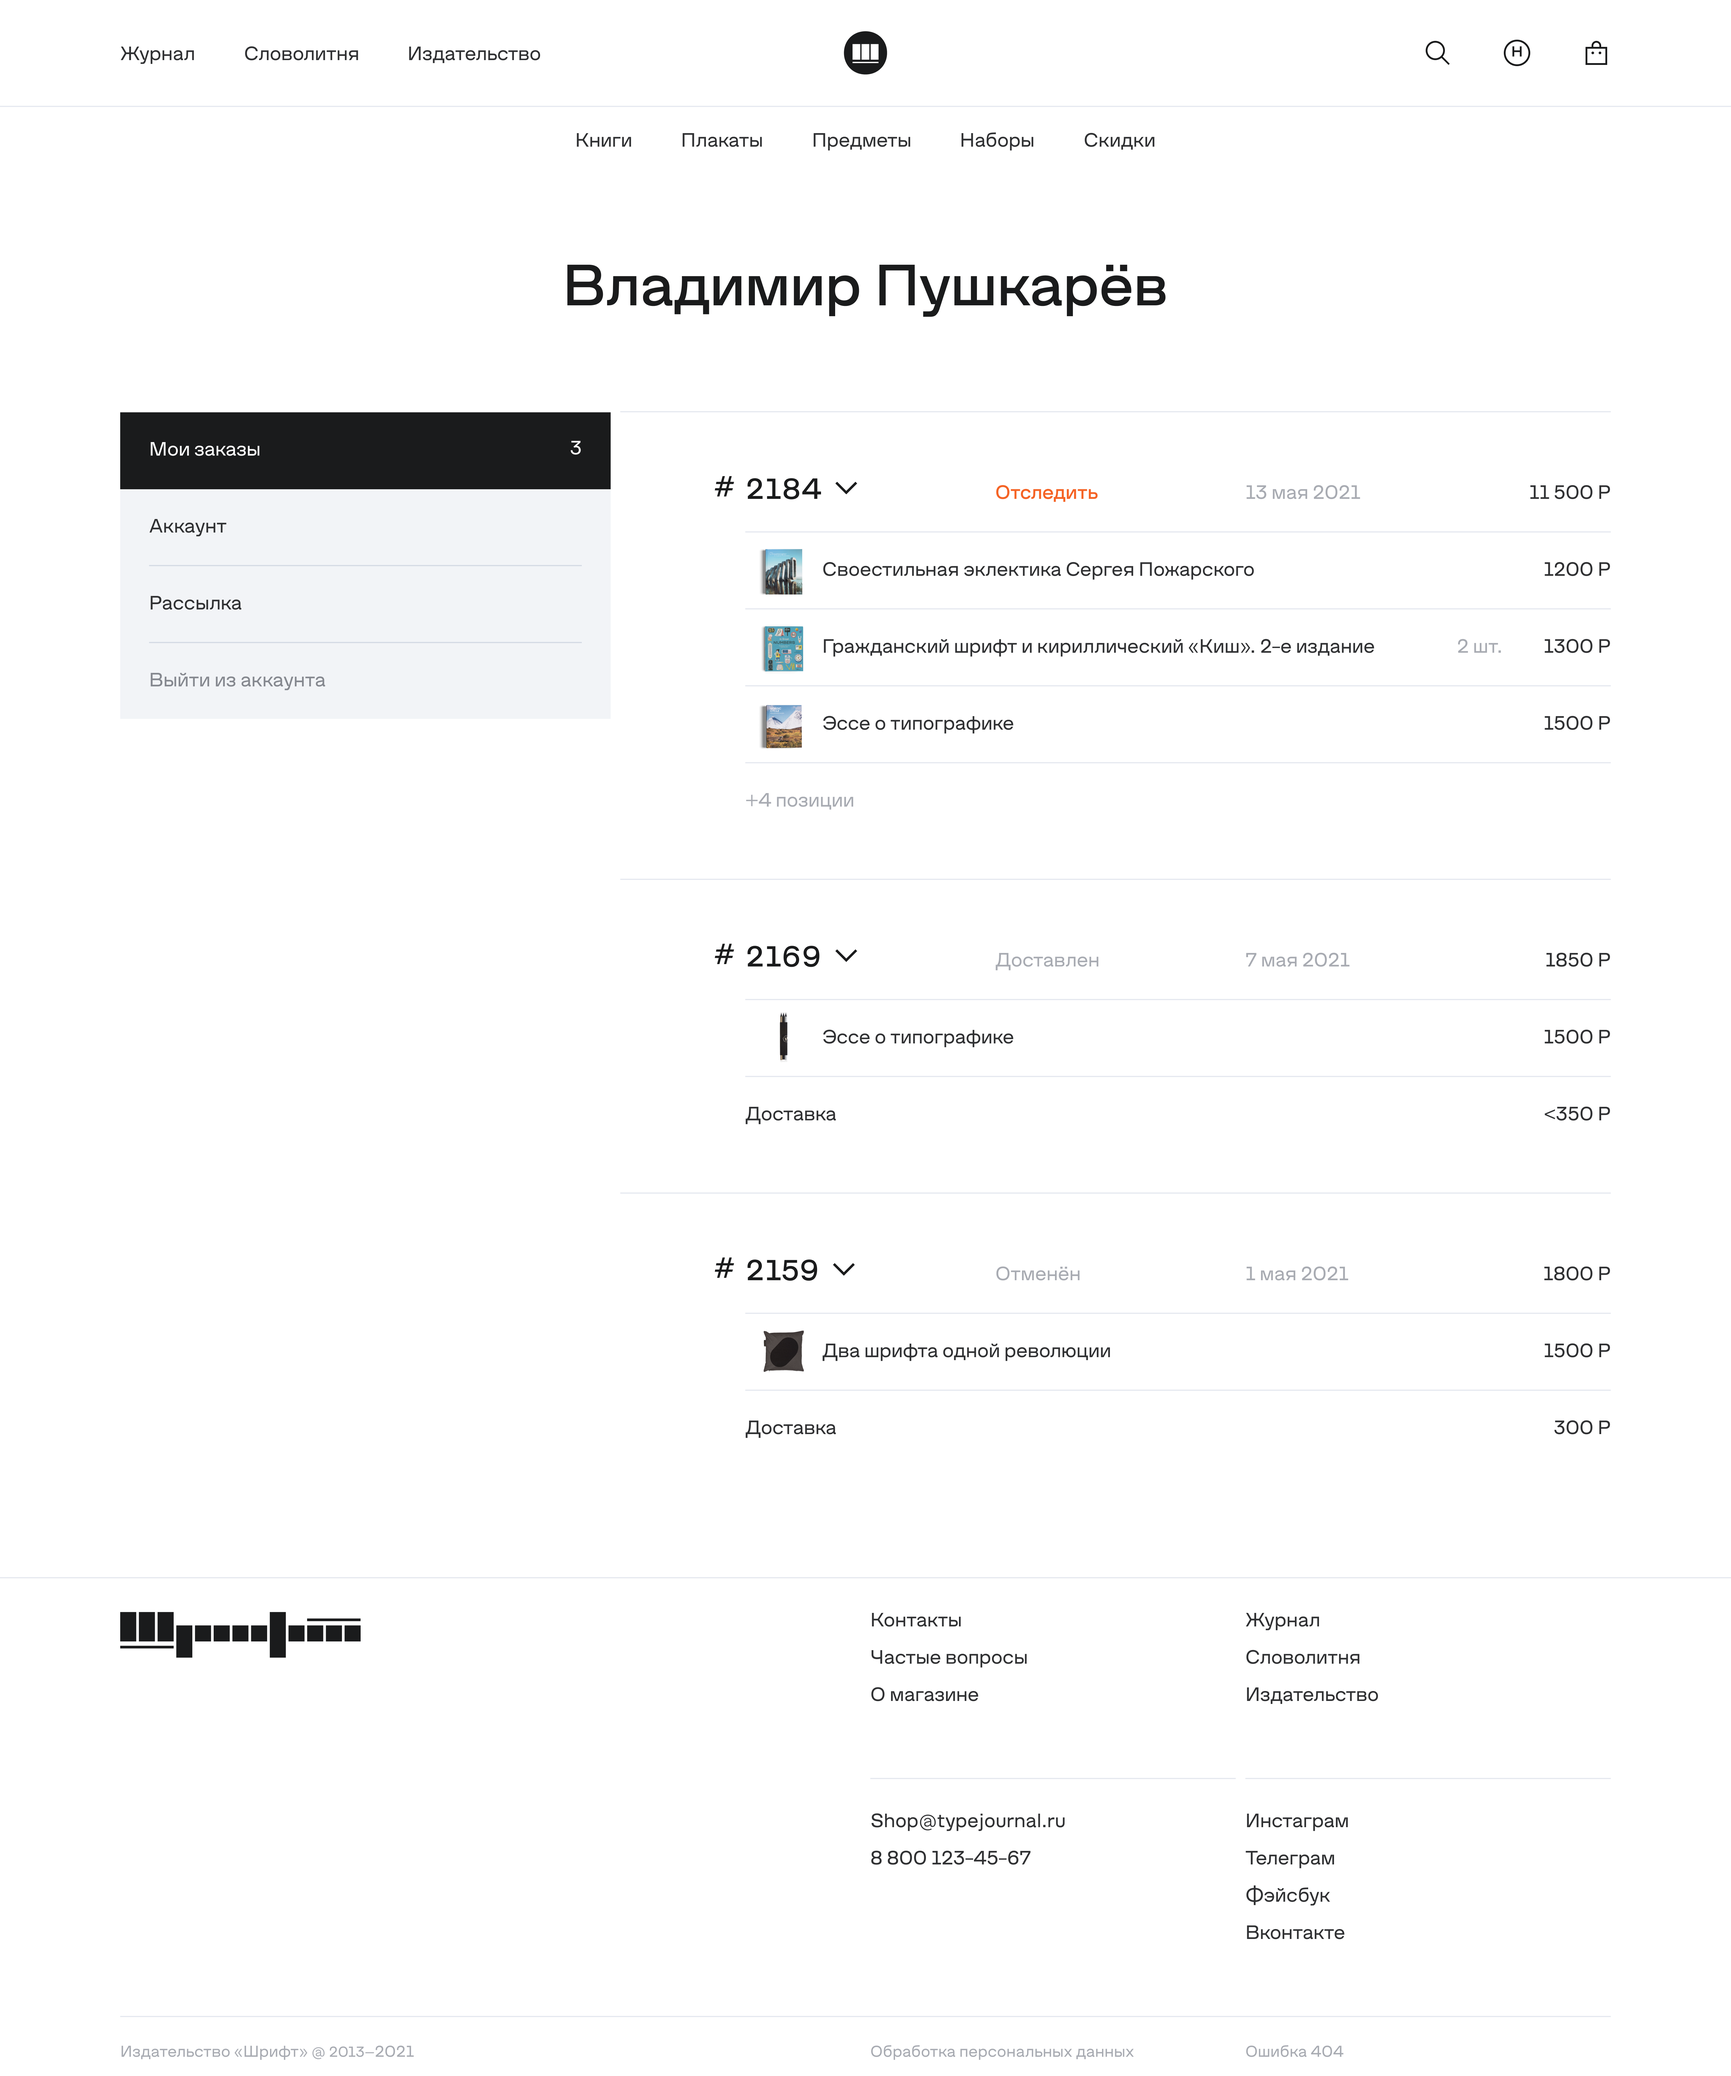
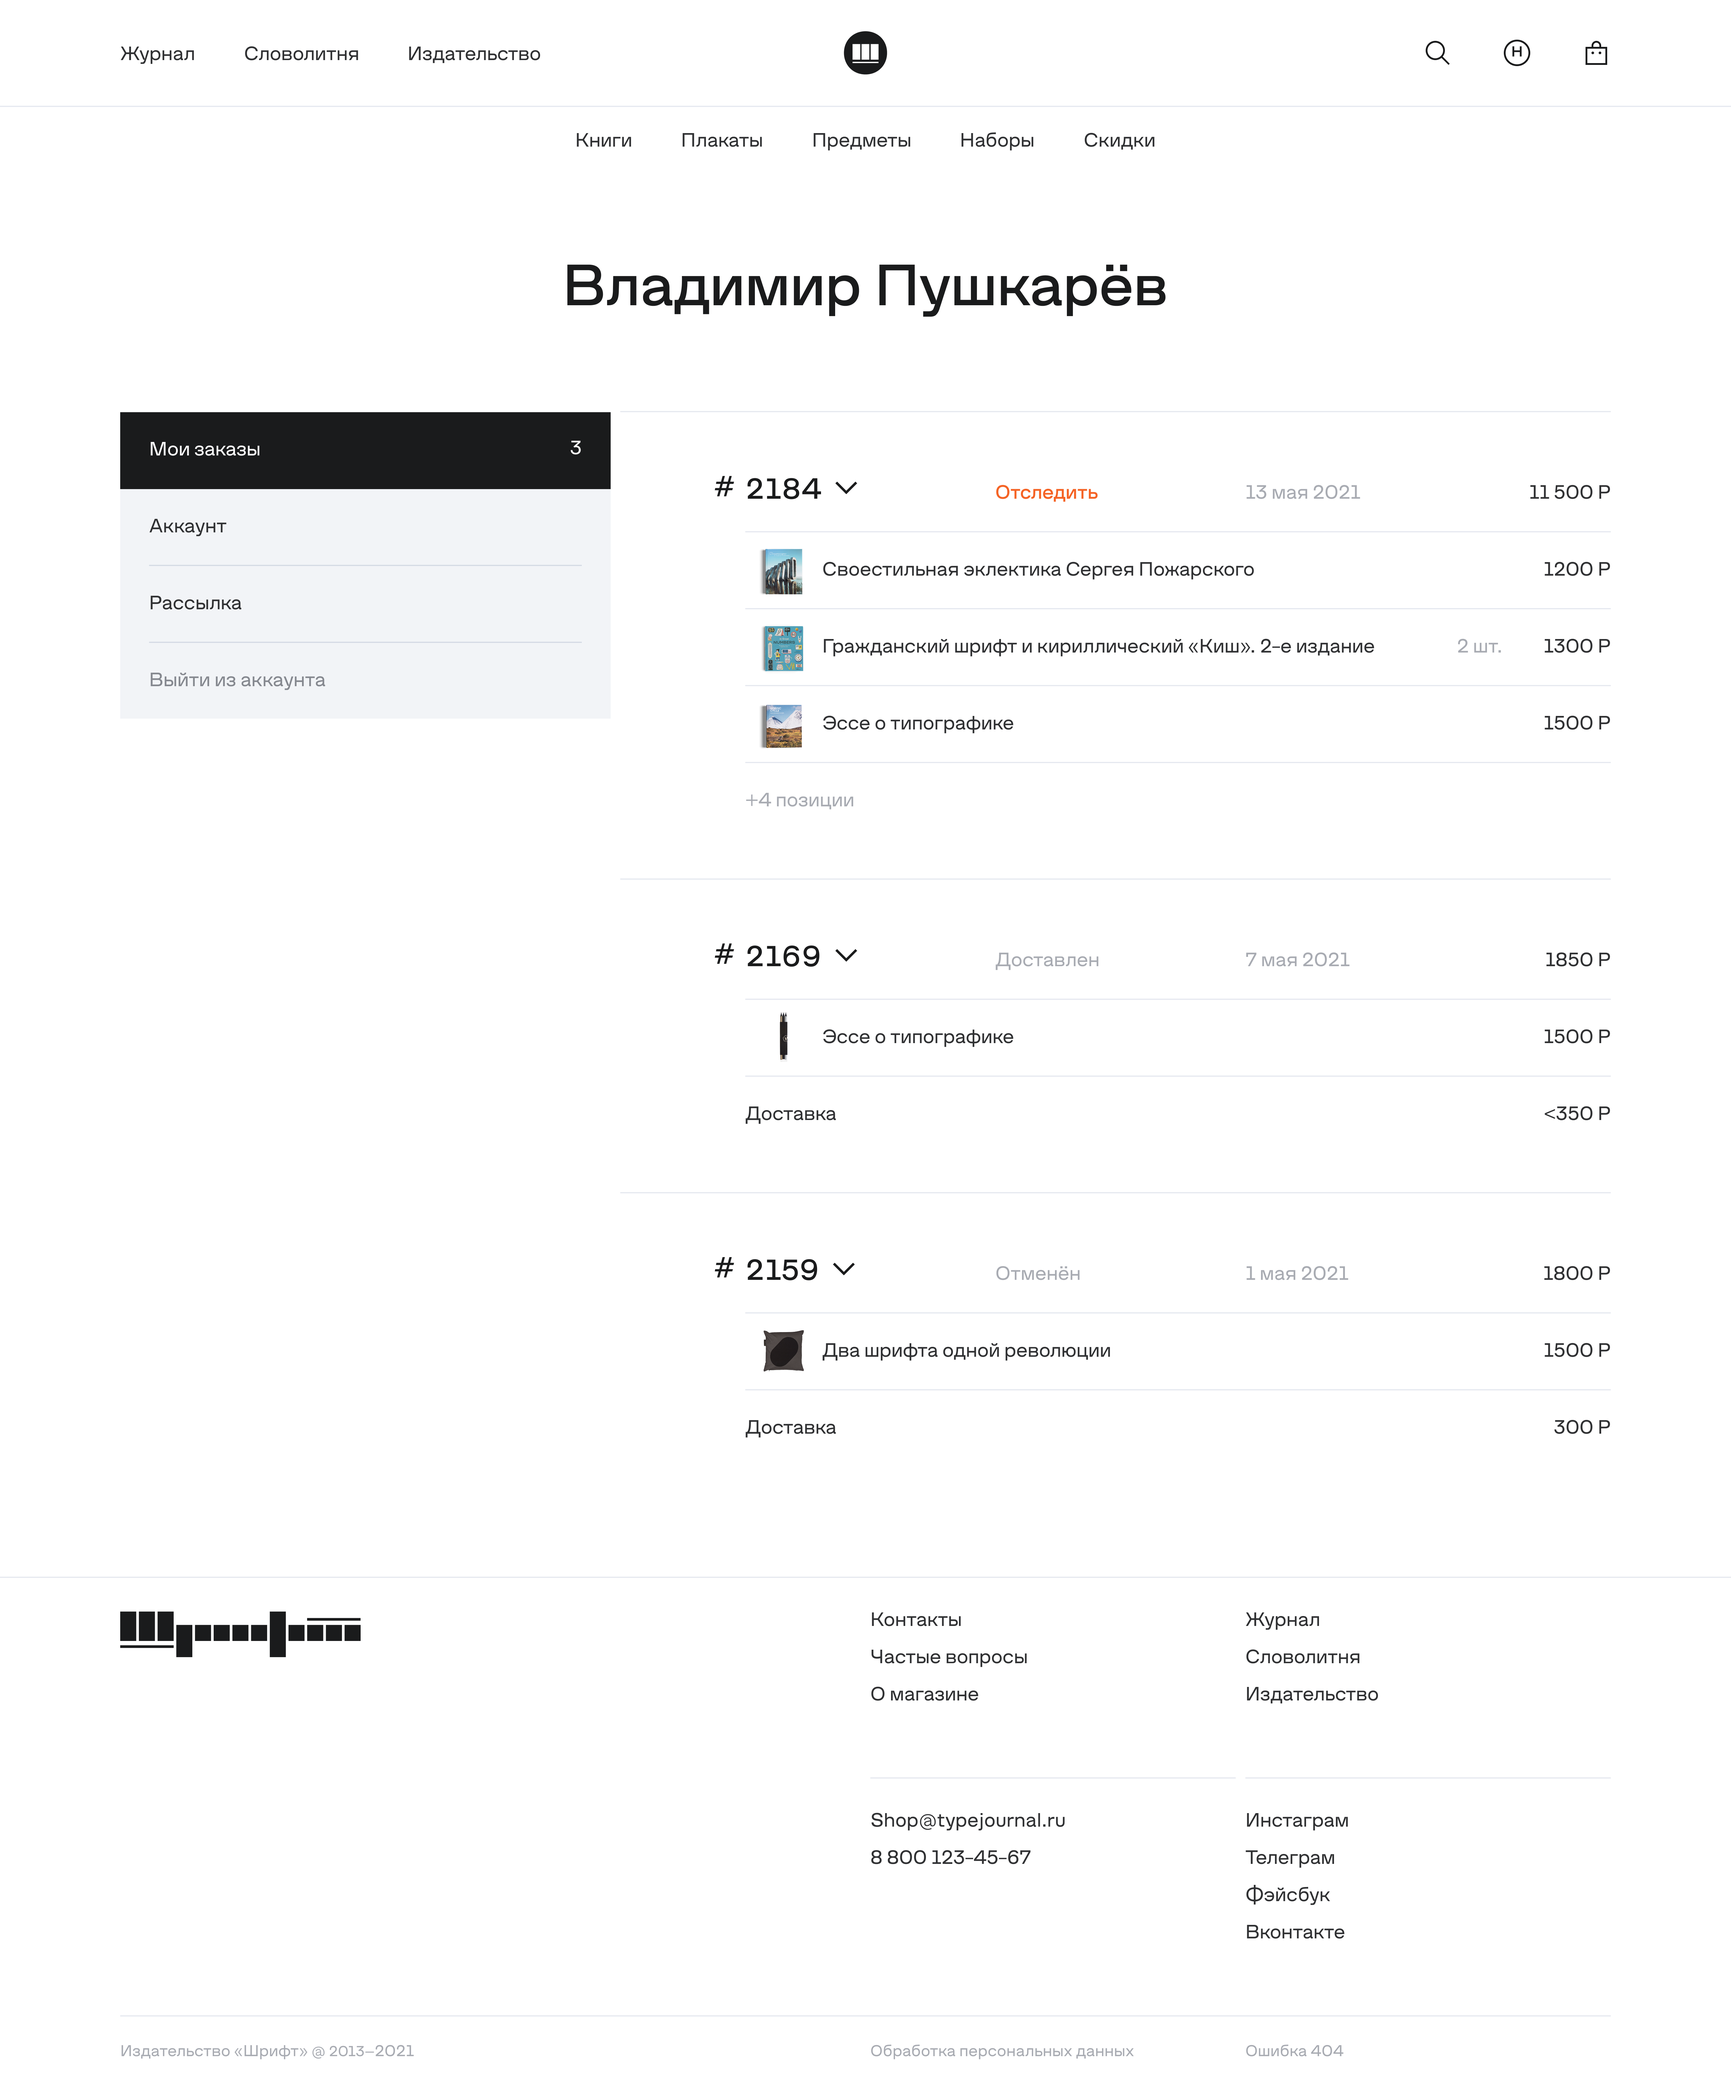
chore: update Schrift Shop orders media

diff --git a/styles/components.css b/styles/components.css
@@ -3997,11 +3997,14 @@ img[data-progressive-image="true"][data-progressive-solo="true"].pimg__full {
   block-size: 100%;
   opacity: 0;
   border-radius: 0;
+  position: relative;
+  z-index: 0;
 }
 
 .schrift-shop-comp__slideshow > img.is-active,
 .schrift-shop-comp__slideshow > .pimg.is-active {
   opacity: 1;
+  z-index: 1;
 }
 
 .schrift-shop-comp__slideshow .pimg__full,
@@ -4010,23 +4013,7 @@ img[data-progressive-image="true"][data-progressive-solo="true"].pimg__full {
   block-size: 100%;
   object-fit: contain;
   border-radius: 0;
-}
-
-/* Slideshow needs hard cuts: avoid placeholder/full opacity fades. */
-.schrift-shop-comp__slideshow .pimg__placeholder,
-.schrift-shop-comp__slideshow .pimg__full {
   transition: none;
-}
-
-.schrift-shop-comp__slideshow > img,
-.schrift-shop-comp__slideshow > .pimg {
-  position: relative;
-  z-index: 0;
-}
-
-.schrift-shop-comp__slideshow > img.is-active,
-.schrift-shop-comp__slideshow > .pimg.is-active {
-  z-index: 1;
 }
 
 /* Schrift Shop — Gill tiles (background + no rounding) */
@@ -4089,6 +4076,12 @@ img[data-progressive-image="true"][data-progressive-solo="true"].pimg__full {
 .schrift-shop-comp__ph--on-dark {
   background-color: var(--color-black);
   box-shadow: inset 0 0 0 1px rgba(255, 255, 255, 0.38);
+}
+
+/* On dark stage frames, avoid white hairline borders around media. */
+.schrift-shop-comp__frame--stage-dark .schrift-shop-comp__ph--edge,
+.schrift-shop-comp__frame--stage-dark .schrift-shop-comp__ph--on-dark {
+  box-shadow: none;
 }
 
 .schrift-shop-comp__ph--1464-888 {
